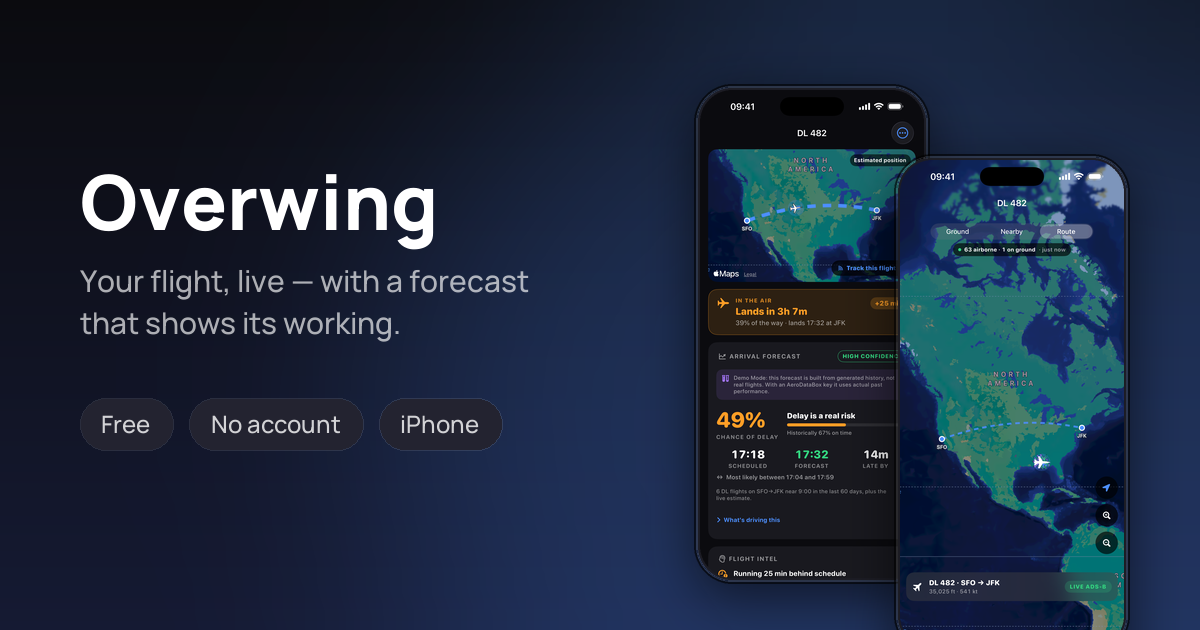
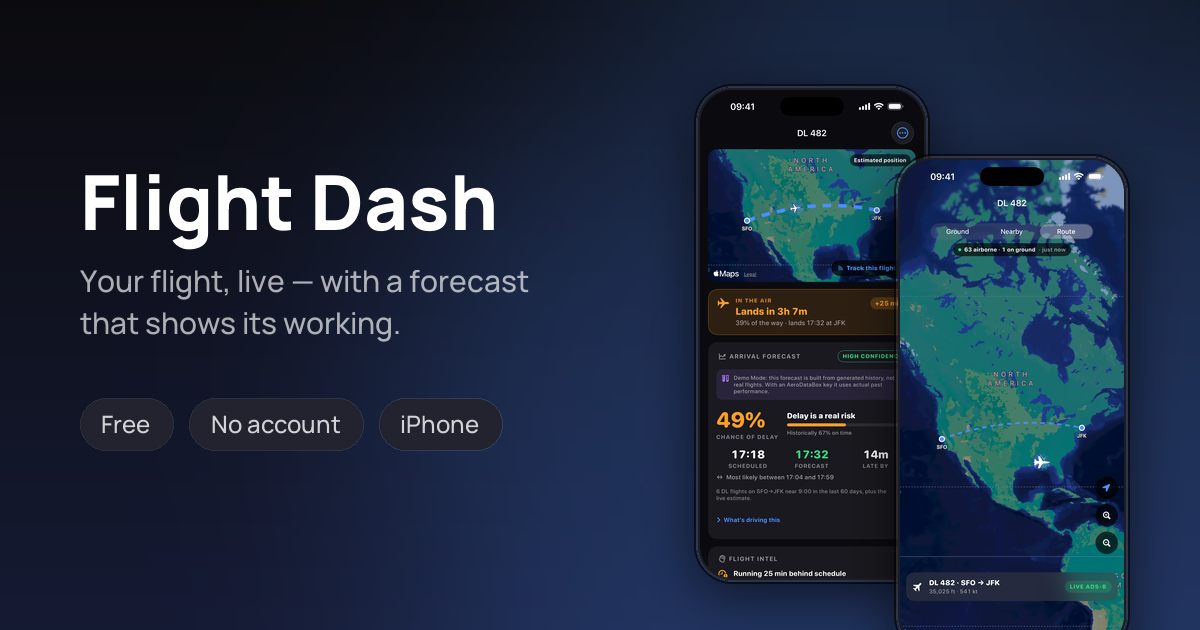
Rename to Flight Dash (owner's choice): Home Screen name, in-app text, store copy, cards

Changed region(s): [[0.0617, 0.2714, 0.4317, 0.3921]]

diff --git a/FlightDeck/Views/Settings/SettingsView.swift b/FlightDeck/Views/Settings/SettingsView.swift
@@ -107,7 +107,7 @@ struct SettingsView: View {
                 } header: {
                     Text("About")
                 } footer: {
-                    Text("FlightDeck is an independent flight tracker. It has no account and no server; your flights stay on this device. Airport status comes from the FAA, weather from NOAA, live aircraft positions from the adsb.lol community network, and flight schedules from AeroDataBox when you add a key. Positions on maps are estimates — this is not an air-traffic-control tool and must never be used for navigation or separation. Not affiliated with any airline or data provider.")
+                    Text("Flight Dash is an independent flight tracker. It has no account and no server; your flights stay on this device. Airport status comes from the FAA, weather from NOAA, live aircraft positions from the adsb.lol community network, and flight schedules from AeroDataBox when you add a key. Positions on maps are estimates — this is not an air-traffic-control tool and must never be used for navigation or separation. Not affiliated with any airline or data provider.")
                 }
             }
             .scrollContentBackground(.hidden)
@@ -213,11 +213,11 @@ struct SettingsView: View {
     private var notificationFooter: String {
         switch notifications.authorization {
         case .denied:
-            return "iOS is blocking alerts for FlightDeck. Turn them back on in iOS Settings to get boarding and gate alerts."
+            return "iOS is blocking alerts for Flight Dash. Turn them back on in iOS Settings to get boarding and gate alerts."
         case .notDetermined:
-            return "Boarding, gate-close, departure, landing and baggage alerts are scheduled on your device, so they arrive even when FlightDeck isn't open."
+            return "Boarding, gate-close, departure, landing and baggage alerts are scheduled on your device, so they arrive even when Flight Dash isn't open."
         default:
-            return "Timed alerts (boarding, gate close, departure, landing, bags) are scheduled ahead on your device and arrive with the app closed. Change alerts — a new delay, a gate move, a cancellation — are found when the app refreshes, so open FlightDeck to pick them up. There's no push server behind this app."
+            return "Timed alerts (boarding, gate close, departure, landing, bags) are scheduled ahead on your device and arrive with the app closed. Change alerts — a new delay, a gate move, a cancellation — are found when the app refreshes, so open Flight Dash to pick them up. There's no push server behind this app."
         }
     }
 }

diff --git a/FlightDeck/Views/Flights/AddFlightView.swift b/FlightDeck/Views/Flights/AddFlightView.swift
@@ -54,7 +54,7 @@ struct AddFlightView: View {
                     if isDemo {
                         Text("Demo Mode is on, so any number you search returns a sample flight with made-up times. To add a real flight, use *Add your real flight* above, or add a free AeroDataBox key in Settings.")
                     } else if isBeyondLiveWindow, daysAhead > 0 {
-                        Text("That's \(daysAhead) days out. If the live feed doesn't have that date yet, FlightDeck copies this week's timetable for the same flight and confirms it automatically once it's within \(AeroDataBoxProvider.liveWindowDays) days.")
+                        Text("That's \(daysAhead) days out. If the live feed doesn't have that date yet, Flight Dash copies this week's timetable for the same flight and confirms it automatically once it's within \(AeroDataBoxProvider.liveWindowDays) days.")
                     } else if isBeyondLiveWindow {
                         Text("That's \(-daysAhead) days ago. How far back lookups reach depends on your AeroDataBox plan — if it isn't found, add it manually below.")
                     }

diff --git a/FlightDeck/Views/Connection/ConnectionView.swift b/FlightDeck/Views/Connection/ConnectionView.swift
@@ -144,7 +144,7 @@ struct ConnectionView: View {
         ContentUnavailableView {
             Label("Track two flights to analyze a connection", systemImage: "arrow.triangle.branch")
         } description: {
-            Text("Add both legs of your trip in the Flights tab. FlightDeck auto-detects connections and rates your layover risk live.")
+            Text("Add both legs of your trip in the Flights tab. Flight Dash auto-detects connections and rates your layover risk live.")
         }
         .padding(.top, 40)
     }

diff --git a/FlightDeck/Views/Flights/WelcomeView.swift b/FlightDeck/Views/Flights/WelcomeView.swift
@@ -17,7 +17,7 @@ struct WelcomeView: View {
                         .scaledFont(72, design: .default)
                         .foregroundStyle(Theme.accent)
                         .accessibilityHidden(true)
-                    Text("Welcome to FlightDeck")
+                    Text("Welcome to Flight Dash")
                         .scaledFont(28, weight: .heavy)
                         .multilineTextAlignment(.center)
                         .accessibilityAddTraits(.isHeader)

diff --git a/FlightDeck/Services/NotificationService.swift b/FlightDeck/Services/NotificationService.swift
@@ -200,7 +200,7 @@ final class NotificationService: ObservableObject {
     func sendTestAlert() async {
         guard isAuthorized else { return }
         let content = UNMutableNotificationContent()
-        content.title = "FlightDeck alerts are on"
+        content.title = "Flight Dash alerts are on"
         content.body = "This is what a boarding or gate-change alert will look like."
         content.sound = .default
         let request = UNNotificationRequest(

diff --git a/scripts/make_store_cards.py b/scripts/make_store_cards.py
@@ -14,7 +14,7 @@ from pathlib import Path
 
 from PIL import Image, ImageDraw, ImageFilter, ImageFont
 
-BRAND = "Overwing"
+BRAND = "Flight Dash"
 BUILT = "2026-11-11"  # fixed so output is deterministic
 ROOT = Path(__file__).resolve().parent.parent
 STORE = ROOT / "docs" / "store"

diff --git a/docs/store/listing.md b/docs/store/listing.md
@@ -1,11 +1,11 @@
-# FlightDeck: App Store listing (draft for the owner)
+# Flight Dash: App Store listing (draft for the owner)
 
-> **If the store name changes, replace "FlightDeck" in these fields:** Description, What's New, Beta App Description, What to Test (and the App Review notes in `review-notes.md`). Name, Subtitle, Promotional text and Keywords do not contain it.
+> **Name chosen by the owner (2026-11-11): Flight Dash.** Home Screen name "Flight Dash"; store name "Flight Dash: Flight Tracker". The Xcode target, folders and bundle id keep the code name `FlightDeck` / `com.personal.flightdeck` (users never see them).
 
 Everything App Store Connect asks for on the product page and in TestFlight, ready to paste. Written 2026-11-11 on branch `claude/app-store-prep`, against version 1.0 (build number set by Codemagic per upload). Bundle id `com.personal.flightdeck`, ASC app id 6828448145, iPhone only, iOS 17+.
 
 - Each field sits under a `### <Field> (<limit>)` heading, in a `text` block holding exactly what you paste. Counts are checked by `python scripts/check_listing.py` and rewritten by `python scripts/check_listing.py --write`. Do not edit a count by hand.
-- Body copy says "FlightDeck" because that is the Home Screen name today (`CFBundleDisplayName`). The store name is the owner's decision (see "Name" and `store-review.md` section 2).
+- Body copy says "Flight Dash", the Home Screen name (`CFBundleDisplayName`).
 - Items marked **OWNER** need a login, a decision or a real iPhone.
 - Card images are built by `python scripts/make_store_cards.py` (see "Screenshots").
 
@@ -26,26 +26,17 @@ How they were applied: no other flight app and no airline is named in the name, 
 
 ## Name
 
-**OWNER decides.** "FlightDeck - Flight Tracker" (id 6759628645, JAC LLC) is already a flight tracker on the store, so a plain "FlightDeck" name is a Guideline 4.1 / 5.2.1 risk. The ASC record is "Prad's Flight Deck" for now. Check a name by saving it in App Store Connect (a taken name is rejected at once) and with a USPTO trademark search.
+**Chosen by the owner: Flight Dash** (2026-11-11). "FlightDeck - Flight Tracker" (id 6759628645, JAC LLC) already exists, so the code name was not used. An App Store search for "Flight Dash" on 2026-11-11 (US, UK, CA, AU, IN, DE, JP) found no app with that name. Final check: App Store Connect rejects a taken name when you save it; a USPTO trademark search is still worth a minute.
 
-Recommended:
 
 ### Name (30)
 ```text
-Overwing: Flight Tracker
+Flight Dash: Flight Tracker
 ```
 
 Count: **24 / 30 characters**
 
-Ranked alternatives (counts computed with Python):
-
-| Rank | Name | Count | Notes |
-| --- | --- | --- | --- |
-| 1 | Overwing: Flight Tracker | 24 / 30 | Aviation word (the overwing exit), short, no app found on 2026-11-11. Home Screen name "Overwing". |
-| 2 | Holdshort: Flight Tracker | 25 / 30 | "Hold short" is a taxiway instruction. No app found; a little more obscure. |
-| 3 | FlightDeck: Flights & Passport | 30 / 30 | Keeps today's name. Only if ASC accepts it and the owner accepts the 4.1 risk. Fine for TestFlight if the rename is deferred. |
-
-Not recommended: "Tailfin" (cycling brand), anything with "Radar", any other app's or airline's name.
+Earlier candidates (not used): Overwing: Flight Tracker, Holdshort: Flight Tracker (see `store-review.md` section 2).
 
 ## Subtitle
 
@@ -77,7 +68,7 @@ Count: **168 / 170 characters**
 
 ### Description (4000)
 ```text
-Your flight, live, with a forecast that shows its working and a Passport that writes itself. FlightDeck is free: no account, no subscription, no server, and your flights stay on this iPhone.
+Your flight, live, with a forecast that shows its working and a Passport that writes itself. Flight Dash is free: no account, no subscription, no server, and your flights stay on this iPhone.
 
 YOUR FLIGHT, LIVE
 • A card per flight with status, progress and a countdown to the next step.
@@ -120,9 +111,9 @@ PRIVATE BY DESIGN
 GOOD TO KNOW
 • iPhone, iOS 17 or later. FAA programs are US-only. Live aircraft coverage varies.
 
-Positions shown on maps are estimates. FlightDeck is not an air-traffic-control tool and must never be used for navigation or separation.
+Positions shown on maps are estimates. Flight Dash is not an air-traffic-control tool and must never be used for navigation or separation.
 
-FlightDeck is an independent app. It is not affiliated with, endorsed by or sponsored by any airline, airport or data provider. Airport status comes from the FAA, weather from NOAA, live aircraft positions from the adsb.lol community network, routes from adsbdb, and flight schedules from AeroDataBox when you add your own key.
+Flight Dash is an independent app. It is not affiliated with, endorsed by or sponsored by any airline, airport or data provider. Airport status comes from the FAA, weather from NOAA, live aircraft positions from the adsb.lol community network, routes from adsbdb, and flight schedules from AeroDataBox when you add your own key.
 ```
 
 Count: **3492 / 4000 characters**
@@ -144,7 +135,7 @@ Apple does not show this for a first version. Kept for 1.0.1, or in case App Sto
 
 ### What's New (4000)
 ```text
-The first release of FlightDeck. Track your flights live with a countdown to boarding, an arrival forecast that shows its working, real aircraft around you on the map, connection ratings, airport status and weather, and a Passport built from the flights you take. It opens in Demo Mode with a sample trip, so there is nothing to set up.
+The first release of Flight Dash. Track your flights live with a countdown to boarding, an arrival forecast that shows its working, real aircraft around you on the map, connection ratings, airport status and weather, and a Passport built from the flights you take. It opens in Demo Mode with a sample trip, so there is nothing to set up.
 ```
 
 Count: **336 / 4000 characters**
@@ -155,7 +146,7 @@ Paste into TestFlight → (the app) → Test Information. Both texts are repeate
 
 ### Beta App Description (4000)
 ```text
-FlightDeck tracks the flights you take. Each flight gets a live card with a countdown to the next step, an arrival forecast that shows its working, and a live map of the real aircraft around yours. Every flight you take is added to a Passport of miles, hours, airports and delays.
+Flight Dash tracks the flights you take. Each flight gets a live card with a countdown to the next step, an arrival forecast that shows its working, and a live map of the real aircraft around yours. Every flight you take is added to a Passport of miles, hours, airports and delays.
 
 You need nothing to try it. The app opens in Demo Mode with a sample trip built around the current time. Those flights are made up and labelled Demo Mode on screen; airport status, weather and live aircraft are real.
 
@@ -163,11 +154,11 @@ To add a real flight, tap Add Flight, then Add your real flight, and type it in.
 1. Sign up at rapidapi.com.
 2. Find AeroDataBox and subscribe to the free Basic plan.
 3. Copy your RapidAPI key.
-4. In FlightDeck, open Settings, paste it under Live flight lookups, and turn off Demo Mode.
+4. In Flight Dash, open Settings, paste it under Live flight lookups, and turn off Demo Mode.
 
 Not in this build: Live Activities, widgets, Apple Watch, push notifications. Delay and gate-change alerts need the app open.
 
-Positions on maps are estimates. FlightDeck is not an air-traffic-control tool.
+Positions on maps are estimates. Flight Dash is not an air-traffic-control tool.
 
 Feedback: take a screenshot in the app and choose Send Beta Feedback, or use the TestFlight app. Your feedback goes to the developer's issue tracker.
 ```
@@ -281,7 +272,7 @@ The icon ships inside the build (asset catalog, regenerated by `scripts/make_ico
 
 ## Decisions made for the owner (all reversible)
 
-1. Recommended store name "Overwing: Flight Tracker"; body copy says "FlightDeck" until the name is settled (one find-and-replace, fields listed at the top).
+1. Store name "Flight Dash: Flight Tracker" (owner, 2026-11-11). Set it in App Store Connect → App Information → Name.
 2. Subtitle "Live map, delay odds, Passport"; keywords chosen to avoid every word in all three name options and that subtitle.
 3. Travel primary, Utilities secondary.
 4. The "late inbound aircraft" forecast factor is left out of the copy: inbound-flight data only exists in Demo Mode today, so it would not be true for a real flight.

diff --git a/docs/store/support.md b/docs/store/support.md
@@ -1,4 +1,4 @@
-# FlightDeck support
+# Flight Dash support
 
 ## Contact
 
@@ -15,7 +15,7 @@
    1. Sign up at rapidapi.com.
    2. Find AeroDataBox and subscribe to the free **Basic** plan.
    3. Copy your RapidAPI key.
-   4. In FlightDeck, open **Settings**, paste it under **Live flight lookups**, and turn off **Demo Mode**.
+   4. In Flight Dash, open **Settings**, paste it under **Live flight lookups**, and turn off **Demo Mode**.
 
 ## Common questions
 
@@ -29,7 +29,7 @@ Add it by hand, or add your free AeroDataBox key (above) and search by flight nu
 Live aircraft positions come from a volunteer receiver network. Big airports are well covered; smaller ones can have gaps. The app says so instead of showing an empty sky.
 
 **An alert didn't arrive for a delay or a gate change.**
-Those are found when the app refreshes, so FlightDeck needs to be open. Boarding, gate-close, departure, landing and baggage alerts are scheduled on your iPhone and arrive with the app closed.
+Those are found when the app refreshes, so Flight Dash needs to be open. Boarding, gate-close, departure, landing and baggage alerts are scheduled on your iPhone and arrive with the app closed.
 
 **The times look wrong.**
 Every time is shown in the airport's own time zone, as on your boarding pass. A departure from New York shows New York time even if you are in London.
@@ -44,15 +44,15 @@ Settings → **Remove All Flights** (this also clears your Passport) and **Clear
 It is stored on this device, in the app's preferences, and is only sent to AeroDataBox with your own lookups. Clear the field in Settings to remove it any time.
 
 **Does it work on iPad, Apple Watch or with widgets?**
-No. FlightDeck is an iPhone app (iOS 17 or later) with no widgets or Watch app.
+No. Flight Dash is an iPhone app (iOS 17 or later) with no widgets or Watch app.
 
 **Does it collect my data?**
 No. There is no account, no server, no analytics and no ads, and the app never asks for your location. See the privacy policy: <<OWNER: privacy policy URL>>.
 
 ## Safety
 
-Positions shown on maps are estimates. FlightDeck is not an air-traffic-control tool and must never be used for navigation or separation.
+Positions shown on maps are estimates. Flight Dash is not an air-traffic-control tool and must never be used for navigation or separation.
 
 ## About
 
-FlightDeck is an independent app. It is not affiliated with, endorsed by or sponsored by any airline, airport or data provider. Airport status comes from the FAA, weather from NOAA, live aircraft positions from the adsb.lol community network, routes from adsbdb, and flight schedules from AeroDataBox when you add your own key.
+Flight Dash is an independent app. It is not affiliated with, endorsed by or sponsored by any airline, airport or data provider. Airport status comes from the FAA, weather from NOAA, live aircraft positions from the adsb.lol community network, routes from adsbdb, and flight schedules from AeroDataBox when you add your own key.

diff --git a/docs/store/review-notes.md b/docs/store/review-notes.md
@@ -1,6 +1,6 @@
-# FlightDeck: App Review and TestFlight Beta Review notes
+# Flight Dash: App Review and TestFlight Beta Review notes
 
-Everything the reviewers are asked for, in paste order. Checked against the code at HEAD of `claude/app-store-prep` on 2026-11-11. Fill every `<<OWNER: …>>` before pasting. If the store name changes, replace "FlightDeck" in the blocks below.
+Everything the reviewers are asked for, in paste order. Checked against the code at HEAD of `claude/app-store-prep` on 2026-11-11. Fill every `<<OWNER: …>>` before pasting. If the store name changes, replace "Flight Dash" in the blocks below.
 
 ## 1. App Review notes
 
@@ -8,7 +8,7 @@ Paste into App Store Connect → (version) → App Review Information → Notes.
 
 ### App Review notes (4000 bytes)
 ```text
-NO SIGN-IN IS NEEDED. FlightDeck has no account system and no server.
+NO SIGN-IN IS NEEDED. Flight Dash has no account system and no server.
 
 HOW TO SEE EVERYTHING (Demo Mode, on by default, about three minutes)
 1. Launch the app. A Welcome sheet explains the sample trip. Tap "Explore the sample trip".
@@ -58,7 +58,7 @@ Paste into TestFlight → Test Information. Same text as `listing.md`.
 **Beta App Description** (paste into "Beta App Description"):
 
 ```text
-FlightDeck tracks the flights you take. Each flight gets a live card with a countdown to the next step, an arrival forecast that shows its working, and a live map of the real aircraft around yours. Every flight you take is added to a Passport of miles, hours, airports and delays.
+Flight Dash tracks the flights you take. Each flight gets a live card with a countdown to the next step, an arrival forecast that shows its working, and a live map of the real aircraft around yours. Every flight you take is added to a Passport of miles, hours, airports and delays.
 
 You need nothing to try it. The app opens in Demo Mode with a sample trip built around the current time. Those flights are made up and labelled Demo Mode on screen; airport status, weather and live aircraft are real.
 
@@ -66,11 +66,11 @@ To add a real flight, tap Add Flight, then Add your real flight, and type it in.
 1. Sign up at rapidapi.com.
 2. Find AeroDataBox and subscribe to the free Basic plan.
 3. Copy your RapidAPI key.
-4. In FlightDeck, open Settings, paste it under Live flight lookups, and turn off Demo Mode.
+4. In Flight Dash, open Settings, paste it under Live flight lookups, and turn off Demo Mode.
 
 Not in this build: Live Activities, widgets, Apple Watch, push notifications. Delay and gate-change alerts need the app open.
 
-Positions on maps are estimates. FlightDeck is not an air-traffic-control tool.
+Positions on maps are estimates. Flight Dash is not an air-traffic-control tool.
 
 Feedback: take a screenshot in the app and choose Send Beta Feedback, or use the TestFlight app. Your feedback goes to the developer's issue tracker.
 ```

diff --git a/README.md b/README.md
@@ -1,8 +1,8 @@
 <div align="center">
 
-<img src="docs/screenshots/icon.png" width="96" alt="FlightDeck icon" />
+<img src="docs/screenshots/icon.png" width="96" alt="Flight Dash icon" />
 
-# FlightDeck
+# Flight Dash
 
 **A personal flight tracker for iPhone — live tracking, delay forecasts, and a lifetime Passport.**
 
@@ -27,7 +27,7 @@ No accounts, no subscription, no backend. Open the project, press Run, and it
 works — Demo Mode gives you a live sample trip straight away.
 
 > Inspired by [Flighty](https://flighty.com), which is excellent — go buy it.
-> FlightDeck is an original personal-use app and contains no Flighty code or artwork.
+> Flight Dash is an original personal-use app and contains no Flighty code or artwork.
 
 ---
 
@@ -132,7 +132,7 @@ Pick an iPhone simulator and press **⌘R**. That's it — you need Xcode 16+ an
 
 <br />
 
-1. In Xcode: **FlightDeck** target → **Signing & Capabilities** → tick *Automatically manage signing* and choose your team.
+1. In Xcode: **FlightDeck** target (the code name; the app shows as Flight Dash) → **Signing & Capabilities** → tick *Automatically manage signing* and choose your team.
 2. If the bundle ID collides, change `com.personal.flightdeck` to something unique.
 3. On the phone, turn on **Settings → Privacy & Security → Developer Mode**.
 4. Select your iPhone in the toolbar and press **⌘R**.
@@ -178,7 +178,7 @@ flowchart LR
     DB["adsbdb<br/>callsign → route"] --> App
     Demo["Demo Mode<br/>(default)"] --> App
     ADB["AeroDataBox<br/>🔑 optional key"] -.-> App
-    App(("FlightDeck"))
+    App(("Flight Dash"))
 ```
 
 | Data | Source | Key? |
@@ -241,7 +241,7 @@ major hubs.
 
 ## App Store
 
-Everything needed to list FlightDeck on TestFlight (outside testers) or the App Store: eight 6.9-inch screenshot cards (a 6.5-inch set is in `docs/store/screenshots/6.5/`), listing copy, review notes and privacy answers. The cards are rendered from real simulator captures of Demo Mode.
+Everything needed to list Flight Dash on TestFlight (outside testers) or the App Store: eight 6.9-inch screenshot cards (a 6.5-inch set is in `docs/store/screenshots/6.5/`), listing copy, review notes and privacy answers. The cards are rendered from real simulator captures of Demo Mode.
 
 <div align="center">
 <img src="docs/store/screenshots/6.9/01-your-flight-live.png" width="23%" alt="your flight live">

diff --git a/docs/privacy-policy.md b/docs/privacy-policy.md
@@ -1,8 +1,8 @@
-# FlightDeck Privacy Policy
+# Flight Dash Privacy Policy
 
 Effective date: 2026-11-11
 
-FlightDeck is a flight tracker for iPhone. It has no account, no analytics and no server of its own. The developer does not collect, receive or sell any data about you.
+Flight Dash is a flight tracker for iPhone. It has no account, no analytics and no server of its own. The developer does not collect, receive or sell any data about you.
 
 ## What stays on your device
 
@@ -14,7 +14,7 @@ None of this is sent to the developer. To delete it, use Settings, then Remove A
 
 ## Who the app talks to
 
-FlightDeck contacts these services directly from your device. They see your IP address and the request itself, under their own privacy policies.
+Flight Dash contacts these services directly from your device. They see your IP address and the request itself, under their own privacy policies.
 
 - FAA National Airspace System Status (nasstatus.faa.gov): airport delay status.
 - NOAA Aviation Weather Center (aviationweather.gov): airport weather (METAR), sent an airport code.

diff --git a/docs/store/store-review.md b/docs/store/store-review.md
@@ -1,5 +1,7 @@
 # FlightDeck store review: listing strategy, copy spec, card spec
 
+> **Update 2026-11-11:** the owner chose the name **Flight Dash** (store name "Flight Dash: Flight Tracker"). Section 2 below is the original analysis.
+
 _Written 2026-11-11 on branch `claude/app-store-prep` by the lead reviewer. Everything below was checked against the code in this worktree (airport counts, data hosts, feature list) and against the `raw-before` captures in `docs/store/raw-before/`. Two agents execute from this file alone: **opus** writes the copy files, **sonnet** writes the scripts and renders the cards. Neither edits this file; both read all of it. File ownership is in section 5 and is disjoint._
 
 Reference for rigour and file layout only (not wording, not visual style): `C:\Users\pradb\AI-Scripts\ride-compare\docs\store\` and `C:\Users\pradb\AI-Scripts\ride-compare\tools\check-listing.mjs`, `make-store-screenshots.mjs`.
